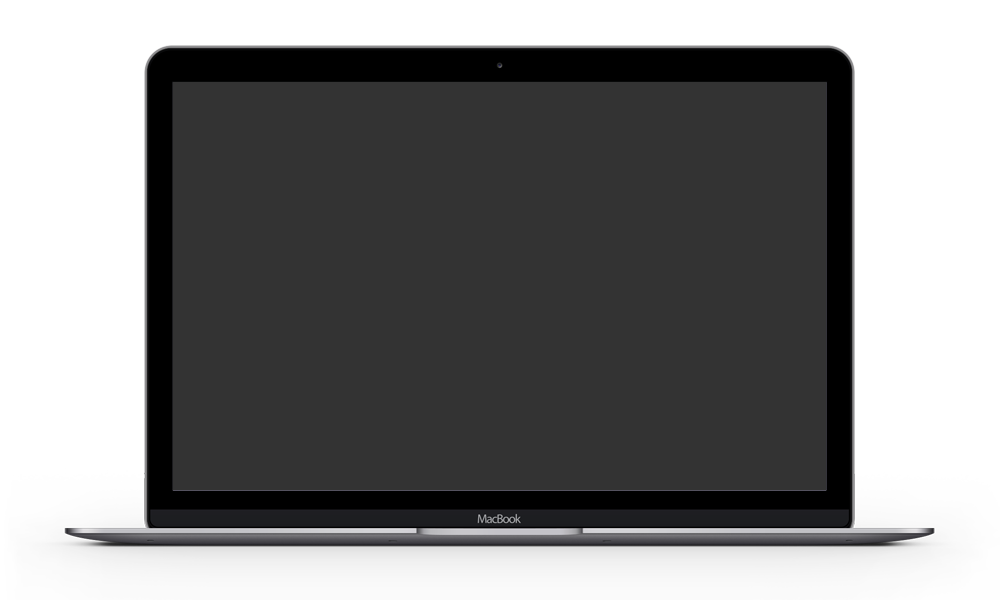
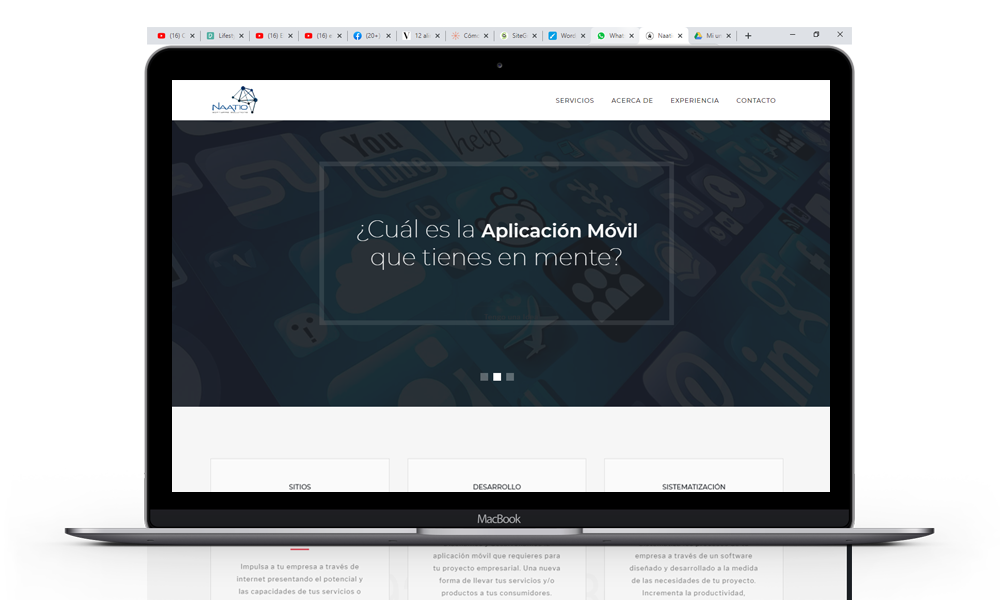
actualizacion de ortografia e imagen CTA

diff --git a/index.html b/index.html
@@ -3,7 +3,7 @@
 <!--[if IE 7]>         <html class="no-js lt-ie9 lt-ie8"> <![endif]-->
 <!--[if IE 8]>         <html class="no-js lt-ie9"> <![endif]-->
 <!--[if gt IE 8]><!-->
-<html class="no-js" lang="de">
+<html class="no-js" lang="es">
 <!--<![endif]-->
 
 <head>
@@ -11,22 +11,22 @@
   <meta charset="utf-8">
   <meta http-equiv="X-UA-Compatible" content="IE=edge">
   <meta name="viewport" content="width=device-width, initial-scale=1.0" />
-  <meta name="description" content="THE ROOF. is a highly creative, modern, visually stunning and Bootstrap responsive multipurpose agency and portfolio HTML5 template with 25 ready home page demos.">
-  <meta name="keywords" content="creative, modern, clean, bootstrap responsive, html5, css3, portfolio, blog, agency, templates, multipurpose, one page, corporate, start-up, studio, branding, designer, freelancer, carousel, parallax, photography, personal, masonry, grid, coming soon, faq">
-  <meta name="author" content="Iniciativa" />
+  <meta name="description" content="desarrolo de sitios web, aplicaciones y software a la medida">
+  <meta name="keywords" content="website, ecommerce, apps, solutions, development, desarrollo, movil, apliaciones, solucion, internet">
+  <meta name="author" content="Naatio" />
   <!-- keywords -->
   <!-- favicons -->
-  <link rel="apple-touch-icon-precomposed" sizes="57x57" href="theme-icon/apple-touch-icon-57x57.png" />
+  <!--<link rel="apple-touch-icon-precomposed" sizes="57x57" href="theme-icon/apple-touch-icon-57x57.png" />
   <link rel="apple-touch-icon-precomposed" sizes="114x114" href="theme-icon/apple-touch-icon-114x114.png" />
   <link rel="apple-touch-icon-precomposed" sizes="72x72" href="theme-icon/apple-touch-icon-72x72.png" />
   <link rel="apple-touch-icon-precomposed" sizes="144x144" href="theme-icon/apple-touch-icon-144x144.png" />
   <link rel="apple-touch-icon-precomposed" sizes="120x120" href="theme-icon/apple-touch-icon-120x120.png" />
-  <link rel="apple-touch-icon-precomposed" sizes="152x152" href="theme-icon/apple-touch-icon-152x152.png" />
+  <link rel="apple-touch-icon-precomposed" sizes="152x152" href="theme-icon/apple-touch-icon-152x152.png" />-->
   <link rel="icon" type="image/png" href="theme-icon/favicon-32x32.png" sizes="32x32" />
-  <link rel="icon" type="image/png" href="theme-icon/favicon-16x16.png" sizes="16x16" />
-  <meta name="application-name" content="&nbsp;" />
+  <!--<link rel="icon" type="image/png" href="theme-icon/favicon-16x16.png" sizes="16x16" />-->
+  <meta name="application-naatio" content="&nbsp;" />
   <meta name="msapplication-TileColor" content="#FFFFFF" />
-  <meta name="msapplication-TileImage" content="theme-icon/mstile-144x144.png" />
+  <!--<meta name="msapplication-TileImage" content="theme-icon/mstile-144x144.png" />-->
 
   <!-- Font-awesome 5.0.9 CSS -->
   <link rel="stylesheet" href="assets/libs/fontawesome/web-fonts-with-css/css/fontawesome-all.min.css">
@@ -187,9 +187,9 @@
               </div>
 
               <!-- LAYER NR. 2 -->
-              <!--<div class="tp-caption  tp-resizeme" id="sl2-lyr2" data-x="['right','right','center','center']" data-hoffset="['-54','-133','0','0']" data-y="['middle','middle','middle','bottom']" data-voffset="['0','50','211','-60']" data-width="none" data-height="none"
+              <div class="tp-caption  tp-resizeme" id="sl2-lyr2" data-x="['right','right','center','center']" data-hoffset="['-54','-133','0','0']" data-y="['middle','middle','middle','bottom']" data-voffset="['0','50','211','-60']" data-width="none" data-height="none"
                 data-whitespace="nowrap" data-type="image" data-responsive_offset="on" data-frames='[{"from":"x:right;","speed":1500,"to":"o:1;","delay":2500,"ease":"Power3.easeOut"},{"delay":"wait","speed":1500,"to":"opacity:0;","ease":"Power4.easeIn"}]'
-                data-visibility="['on', 'on', 'on', 'off']" data-textAlign="['left','left','left','left']" data-paddingtop="[0,0,0,0]" data-paddingright="[0,0,0,0]" data-paddingbottom="[0,0,0,0]" data-paddingleft="[0,0,0,0]" style="z-index: 22;text-transform:left;border-width:0px;"><img src="img/revslider/macbookpro.png" alt="" data-ww="['1000px','1000px','500px','350px']" data-hh="['600px','600px','300px','210px']" width="1000" height="600" data-no-retina> </div>-->
+                data-visibility="['on', 'on', 'on', 'off']" data-textAlign="['left','left','left','left']" data-paddingtop="[0,0,0,0]" data-paddingright="[0,0,0,0]" data-paddingbottom="[0,0,0,0]" data-paddingleft="[0,0,0,0]" style="z-index: 22;text-transform:left;border-width:0px;"><img src="img/revslider/macbookpro.png" alt="" data-ww="['1000px','1000px','500px','350px']" data-hh="['600px','600px','300px','210px']" width="1000" height="600" data-no-retina> </div>
 
               <!-- LAYER NR. 19 -->
               <div class="tp-caption   tp-resizeme" id="slide-2940-layer-2" data-x="['left','left','center','center']" data-hoffset="['627','545','0','0']" data-y="['top','top','top','bottom']" data-voffset="['182','216','627','-24']" data-width="none" data-height="none"
@@ -203,13 +203,13 @@
               <div class="tp-caption text-Display-2  tp-resizeme" id="sl2-lyr3" data-x="['left','left','left','center']" data-y="['middle','middle','top','top']" data-hoffset="['0','0','200','0']" data-voffset="['-140','-140','167','15']" data-fontsize="['62','62','45','42']"
                 data-lineheight="['62','62','45','44']" data-width="none" data-height="none" data-whitespace="nowrap" data-type="text" data-responsive_offset="on" data-frames='[{"from":"x:-50px;opacity:0;","speed":1000,"to":"o:1;","delay":1000,"ease":"Power2.easeOut"},{"delay":"wait","speed":1500,"to":"opacity:0;","ease":"Power4.easeIn"}]'
                 data-textAlign="['left','left','left','center']" data-paddingtop="[0,0,0,0]" data-paddingright="[0,0,0,0]" data-paddingbottom="[0,0,0,0]" data-paddingleft="[0,0,0,0]" style="z-index: 24; white-space: nowrap; text-transform: capitalize">
-                HAZ QUE EL MUNDO <br/>TE ENCUENTRE</div>
+                HAZ TUS IDEAS VISIBLES<br/> PARA EL MUNDO</div>
 
               <!-- LAYER NR. 4 -->
               <div class="tp-caption text-Subline  tp-resizeme" id="sl2-lyr4" data-x="['left','left','left','center']" data-hoffset="['0','0','200','0']" data-y="['middle','middle','top','top']" data-voffset="['-40','80','294','122']" data-fontsize="['15','15','15','13']"
                 data-width="none" data-height="none" data-whitespace="nowrap" data-type="text" data-responsive_offset="on" data-frames='[{"from":"x:-50px;opacity:0;","speed":1000,"to":"o:1;","delay":1250,"ease":"Power2.easeOut"},{"delay":"wait","speed":1500,"to":"opacity:0;","ease":"Power4.easeIn"}]'
                 data-textAlign="['left','left','left','center']" data-paddingtop="[0,0,0,0]" data-paddingright="[0,0,0,0]" data-paddingbottom="[0,0,0,0]" data-paddingleft="[0,0,0,0]" style="z-index: 25; white-space: nowrap;text-transform:left;letter-spacing:1px;font-weight:300;">
-                <span style="color: #fff;">IMPULSA</span> TU EMPRESA A TRAVES DE INTERNET</div>
+                <span style="color: #fff;">IMPULSA</span> TU EMPRESA A TRAVÉS DE INTERNET</div>
 
               <!-- LAYER NR. 5 -->
               <div class="tp-caption text-Subline-2   tp-resizeme" id="sl2-lyr5" data-x="['left','left','left','center']" data-hoffset="['0','0','200','0']" data-y="['middle','middle','top','top']" data-voffset="['60','127','345','161']" data-fontsize="['13','13','13','14']"
@@ -220,7 +220,7 @@
               <!-- LAYER NR. 6 -->
               <div class="tp-caption WebProduct-Button rev-btn " id="sl2-lyr6" data-x="['left','left','left','center']" data-hoffset="['0','0','200','0']" data-y="['middle','middle','top','top']" data-voffset="['180','268','476','280']" data-width="none" data-height="none"
                 data-whitespace="nowrap" data-type="button" data-actions='[{"event":"click","action":"simplelink","delay":"","target": "_self","url": "#contacto"}]' data-responsive_offset="on" data-responsive="off" data-frames='[{"from":"x:-50px;opacity:0;","speed":1000,"to":"o:1;","delay":1750,"ease":"Power2.easeOut"},{"delay":"wait","speed":1500,"to":"opacity:0;","ease":"Power4.easeIn"},{"frame":"hover","speed":"300","ease":"Linear.easeNone","to":"o:1;rX:0;rY:0;rZ:0;z:0;","style":"c:rgba(51, 51, 51, 1.00);bg:rgba(255, 255, 255, 1.00);bw:2px 2px 2px 2px;"}]'
-                data-textAlign="['left','left','left','left']" data-paddingtop="[13,13,13,13]" data-paddingright="[35,35,35,35]" data-paddingbottom="[13,13,13,13]" data-paddingleft="[35,35,35,35]" style="z-index: 8; white-space: nowrap; font-size: 13px; line-height: 15px; font-weight: 400; color: rgba(255, 255, 255, 1.00);font-family:'Libre Franklin', sans-serif;text-transform:left;background-color:#1C2025;border-color:rgba(255, 255, 255, 0.25);border-style:solid;border-width:1px; border-radius:30px 30px 30px 30px;letter-spacing:1px;">QUIERO SABER COMO</div>
+                data-textAlign="['left','left','left','left']" data-paddingtop="[13,13,13,13]" data-paddingright="[35,35,35,35]" data-paddingbottom="[13,13,13,13]" data-paddingleft="[35,35,35,35]" style="z-index: 8; white-space: nowrap; font-size: 13px; line-height: 15px; font-weight: 400; color: rgba(255, 255, 255, 1.00);font-family:'Libre Franklin', sans-serif;text-transform:left;background-color:#1C2025;border-color:rgba(255, 255, 255, 0.25);border-style:solid;border-width:1px; border-radius:30px 30px 30px 30px;letter-spacing:1px;">QUIERO SABER CÓMO</div>
 
             </li>
 
@@ -247,7 +247,7 @@
               <div class="tp-caption text-Display-2   tp-resizeme" id="sl3-lyr2" data-x="['center','center','center','center']" data-y="['middle','middle','middle','middle']" data-hoffset="['0','0','0','0']" data-voffset="['0','0','0','0']" data-fontsize="['58','58','36','24']"
                 data-lineheight="['68','68','46','34']" data-width="['868','868','480','320']" data-height="['400','400','240',160']" data-whitespace="nowrap" data-type="text" data-responsive_offset="on" data-frames='[{"from":"x:-50px;opacity:0;","speed":1000,"to":"o:1;","delay":1000,"ease":"Power2.easeOut"},{"delay":"wait","speed":1500,"to":"opacity:0;","ease":"Power4.easeIn"}]'
                 data-textAlign="['center','center','center','center']" data-paddingtop="[120,60,60,30]" data-paddingright="[0,0,0,0]" data-paddingbottom="[0,0,0,0]" data-paddingleft="[0,0,0,0]" style="z-index: 29; white-space: nowrap; text-transform:left; border: 12px solid rgba(255, 255, 255, 0.1);">
-                ¿Cual es la <strong>Aplicación Móvil</strong><br/> que tienes en mente?
+                ¿Cuál es la <strong>Aplicación Móvil</strong><br/> que tienes en mente?
               </div>
               <!-- LAYER NR. 4 -->
               <div class="tp-caption rev-btn rev-maxround rev-bordered" id="sl3-lyr5" data-x="['center','center','center','center']" data-hoffset="['36','40','0','0']" data-y="['middle','middle','middle','middle']" data-voffset="['181','181','181','101']" data-width="none"
@@ -290,7 +290,7 @@
                   <h2>web/</br> ecommerce</h2>
                   <hr class="center color">
                   <p>Impulsa a tu empresa a través de internet presentando el potencial y las capacidades de tus servicios o productos en un sitio web visible desde cualquier dispositivo. Haz que el mundo te encuentre y descubre una herramienta que te ayudará a alcanzar tus metas profesionales y/o empresariales.</p>
-                  <a class="color-primary" href="#contacto">Quiero saber como. <i class="icon ion-arrow-right-c"></i></a>
+                  <a class="color-primary" href="#contacto">Quiero saber cómo. <i class="icon ion-arrow-right-c"></i></a>
                 </div>
                 <!-- end services -->
               </div>
@@ -340,7 +340,7 @@
           <!-- end action-details-->
           <!-- start action-button-->
           <div class="col-12 col-md-4 text-center">
-            <a href="#contacto" class="btn btn-medium btn-outline-light mb-resp-30">Quiero su asesoria</a>
+            <a href="#contacto" class="btn btn-medium btn-outline-light mb-resp-30">Estoy listo</a>
           </div>
           <!-- end action-button-->
         </div>
@@ -355,7 +355,7 @@
           <!-- start content  -->
           <div class=" col-sm-12 col-md-12 col-lg-6 p-60 text-center">
             <h6 class="mb-15 text-400 size-12 uppercase color-four text-center">NAATIO | SOFTWARE SOLUTIONS</h6>
-            <h1 class="display-1 uppercase">pasión & innovacion<span class="color-primary">.</span></h1>
+            <h1 class="display-1 uppercase">pasión & innovación<span class="color-primary">.</span></h1>
             <p class="load color-third">En Naatio trabajamos de manera multidisciplinaria desarrollando herramientas de software, apps móviles y web de las que podrás apoyarte para lograr tus objetivos empresariales. Nuestro compromiso, brindarte confianza, seguridad y satisfacción.</p>
             <p class="color-four mb-0">Somos apasionados del mundo tecnológico y del diseño, curiosos de la vida, nos dejamos sorprender con cada nuevo reto en el que aportamos nuestras habilidades y conocimiento.</p>
             <p class="color-four mb-0">¿Cuál es el próximo reto que tienes para nosotros?
@@ -714,8 +714,8 @@
           <div class="col-12  col-md-8 text-center">
             <!-- section-title -->
             <div class="section-title mb-30">
-              <h2>Cual es tu proxima idea<span>digital</span></h2>
-              <p class="mb-15">Nos encantaría formar parte del desarrollo de tu proyecto. ¿Cuál es el reto en el que podemos ayudarte a sumar esfuerzos?.</p>
+              <h2>¿Cuál es tu próxima idea<span>digital?</span></h2>
+              <p class="mb-15">Nos encantaría formar parte del desarrollo de tu proyecto. </br>¿Cuál es el reto en el que podemos ayudarte a sumar esfuerzos?.</p>
               <hr class="center no-margin">
             </div>
             <!-- end section-title -->
@@ -742,7 +742,7 @@
           </div>
           <div class="col-12 col-md-6">
             <div class="form-group">
-              <input class="form-control form-control-lg" type="email" name="email" placeholder="Correo electronico *" required>
+              <input class="form-control form-control-lg" type="email" name="email" placeholder="Correo electrónico *" required>
             </div>
           </div>
         </div>
@@ -780,13 +780,13 @@
             <div class="col-12 col-md-4 r-border mt-md-60 prl-30 p-sm-15">
               <h6 class="uppercase">NAATIO | SOFTWARE SOLUTIONS</h6>
               <p class="color-four">Somos apasionados del mundo tecnológico y del diseño, curiosos de la vida, nos dejamos sorprender con cada nuevo reto en el que aportamos nuestras habilidades y conocimiento.</p>
-              <a href="#" class="mr-30"><i class="icon ion-social-facebook-outline size-20"></i></a>
+              <a href="https://www.facebook.com/naatio" target="blank" class="mr-30"><i class="icon ion-social-facebook-outline size-20"></i></a>
               <a href="#" class="mr-30"><i class="icon ion-social-twitter-outline size-20"></i></a>
               <a href="#" class="mr-30"><i class="icon ion-social-instagram-outline size-20"></i></a>
               <a href="#" class="mr-30"><i class="icon ion-social-linkedin-outline size-20"></i></a>
             </div>
             <div class="col-12 col-md-4 r-border mt-md-60 prl-30 p-sm-15">
-              <h6 class="uppercase">conocenos</h6>
+              <h6 class="uppercase">conócenos</h6>
               <ul class="list-unstyled list-menu-footer">
                 <li><a href="#servicios">servicios</a></li>
                 <li><a href="#acerca">acerca de</a></li>
@@ -799,14 +799,14 @@
               <ul class="list-unstyled address">
                 <li><i class="icon ion-ios-telephone-outline icon-list size-20"></i>Whatsapp: +52 1 967 134 2149</li>
                 <li><i class="icon ion-ios-telephone-outline icon-list size-20"></i>Whatsapp: +52 1 966 113 7983</li>
-                <li><i class="icon ion-ios-email-outline icon-list size-20"></i>correo electronico: hola@naatio.com</li>
+                <li><i class="icon ion-ios-email-outline icon-list size-20"></i>Correo electrónico: hola@naatio.com</li>
               </ul>
             </div>
           </div>
         </div>
       </div>
       <div class="row justify-content-center ptb-30 bg-dark t-border">
-        <div class="col-md-6 text-center color-four">© 2020 <strong>Powered by</strong> <a href="https://naatio.com" class="color-primary text-300">NAATIO SOFTWARE SOLUTIONS</a></div>
+        <div class="col-md-6 text-center color-four">© 2020 <strong>Powered by</strong> <a href="https://naatio.com" class="color-primary text-300">NAATIO | SOFTWARE SOLUTIONS</a></div>
       </div>
     </div>
   </footer>

diff --git a/assets/css/common.css b/assets/css/common.css
@@ -661,10 +661,10 @@ blockquote-border {
   background-image: url("http://placehold.it/1920x1080"); }
 
 .bg-img-10 {
-  background-image: url("http://placehold.it/1920x1080"); }
+  background-image: url("/img/general/CTA.jpg"); }
 
 .bg-img-11 {
-  background-image: url("http://placehold.it/1920x1080"); }
+  background-image: image("http://placehold.it/1920x1080"); }
 
 .bg-img-12 {
   background-image: url("http://placehold.it/1920x1080"); }
@@ -1243,7 +1243,7 @@ a.white:hover {
 /* --- color ---
 ----------------------------- */
 .color-primary {
-  color: #693792 !important; }
+  color: #00458a !important; }
 
 .color-secondary {
   color: #1C2025 !important; }

diff --git a/assets/scss/common.scss b/assets/scss/common.scss
@@ -538,7 +538,7 @@ blockquote-border {
 .bg-img-7 {background-image: url("http://placehold.it/1920x1080");}
 .bg-img-8 {background-image: url("http://placehold.it/1920x1080");}
 .bg-img-9 {background-image: url("http://placehold.it/1920x1080");}
-.bg-img-10 {background-image: url("http://placehold.it/1920x1080");}
+.bg-img-10 {background-image: url("/img/general/CTA.jpg");}
 .bg-img-11 {background-image: url("http://placehold.it/1920x1080");}
 .bg-img-12 {background-image: url("http://placehold.it/1920x1080");}
 .bg-img-13 {background-image: url("http://placehold.it/1920x1080");}

diff --git a/assets/inc/sendEmail.php b/assets/inc/sendEmail.php
@@ -4,7 +4,7 @@
 
 // Replace this with your own email address
 
-$siteOwnersEmail = 'mayorga_50@hotmail.com';
+$siteOwnersEmail = 'hola@naatio.com';
 
 
 
@@ -112,7 +112,6 @@ if($_POST) {
 		if ($mail) {
 
 			$error['OK'] = "done";
-
 			echo json_encode($error);
 
 		} else {
@@ -130,16 +129,11 @@ if($_POST) {
 
 
 	else {
-
-
-
 		echo json_encode($error);
 
-
-
 	} # end else - there was a validation error
-
-
+	
+	header("Location:https://naatio.com");
 
 }
 
